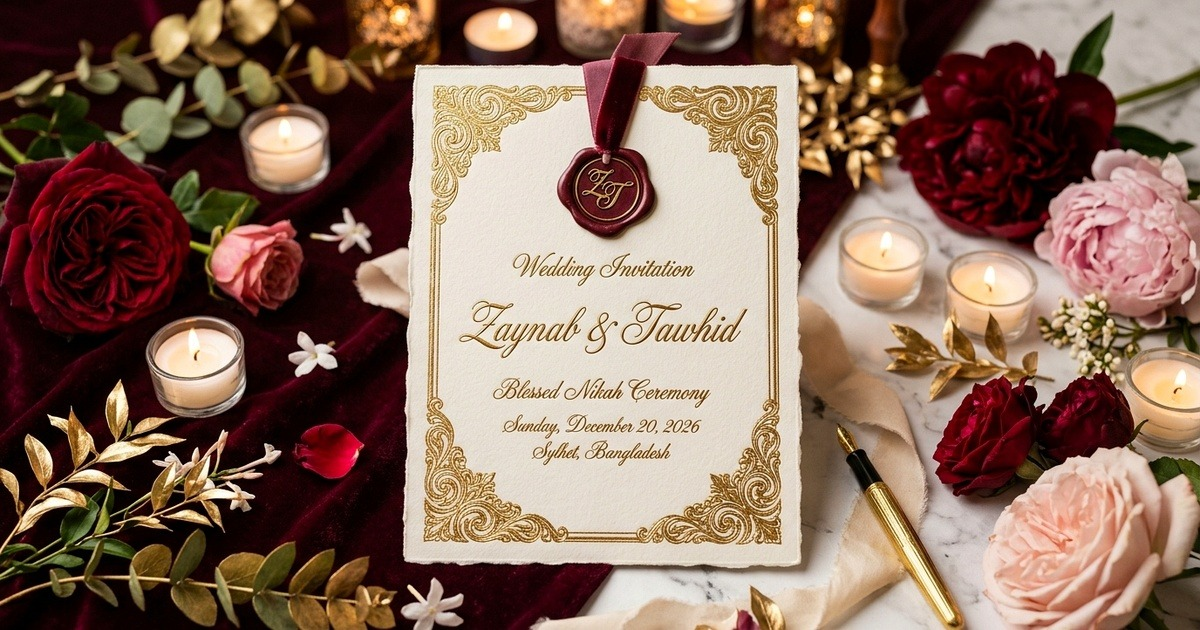
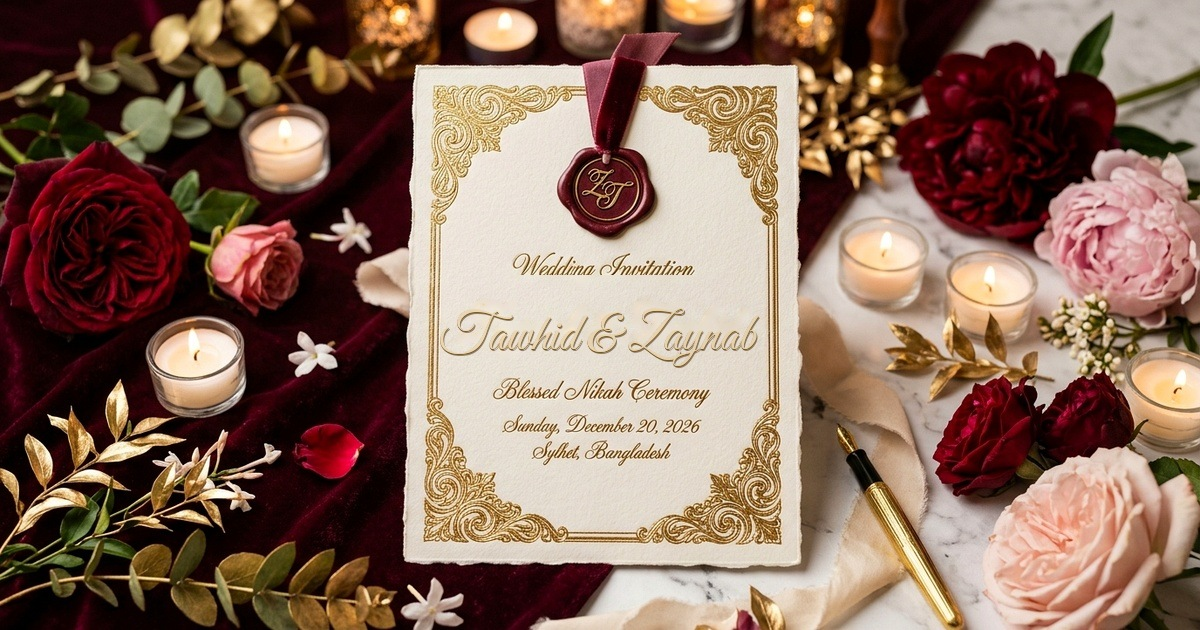
fix: use absolute og:image url for whatsapp preview and place groom name first (Tawhid & Zaynab)

Changed region(s): [[0.37, 0.4825, 0.6475, 0.6032]]

diff --git a/index.html b/index.html
@@ -4,28 +4,30 @@
 <head>
   <meta charset="UTF-8">
   <meta name="viewport" content="width=device-width, initial-scale=1.0, maximum-scale=1.0, user-scalable=no">
-  <title>The Wedding of Zaynab &amp; Tawhid | December 20, 2026</title>
+  <title>The Wedding of Tawhid &amp; Zaynab | December 20, 2026</title>
   <meta name="description"
-    content="Official Wedding Invitation of Zaynab &amp; Tawhid. Join us for our blessed Nikah ceremony in Sylhet, Bangladesh on December 20, 2026.">
+    content="Official Wedding Invitation of Tawhid &amp; Zaynab. Join us for our blessed Nikah ceremony in Sylhet, Bangladesh on December 20, 2026.">
 
-  <!-- OpenGraph / WhatsApp / Facebook / Telegram Link Preview Thumbnail -->
+  <!-- OpenGraph / WhatsApp / Facebook / Telegram Link Preview Thumbnail (Absolute URLs Required) -->
   <meta property="og:type" content="website">
-  <meta property="og:site_name" content="The Wedding of Zaynab &amp; Tawhid">
-  <meta property="og:title" content="💍 Wedding Invitation | Zaynab &amp; Tawhid">
-  <meta property="og:description" content="You are cordially invited to celebrate the Blessed Nikah Ceremony of Zaynab &amp; Tawhid on Sunday, December 20, 2026. Tap to open your interactive invitation.">
-  <meta property="og:image" content="assets/og_wedding_thumbnail.jpg">
-  <meta property="og:image:secure_url" content="assets/og_wedding_thumbnail.jpg">
+  <meta property="og:url" content="https://weddinginvitation-psi-teal.vercel.app/">
+  <meta property="og:site_name" content="The Wedding of Tawhid &amp; Zaynab">
+  <meta property="og:title" content="💍 Wedding Invitation | Tawhid &amp; Zaynab">
+  <meta property="og:description" content="You are cordially invited to celebrate the Blessed Nikah Ceremony of Tawhid &amp; Zaynab on Sunday, December 20, 2026. Tap to open your interactive invitation.">
+  <meta property="og:image" content="https://weddinginvitation-psi-teal.vercel.app/assets/og_wedding_thumbnail.jpg?v=5">
+  <meta property="og:image:secure_url" content="https://weddinginvitation-psi-teal.vercel.app/assets/og_wedding_thumbnail.jpg?v=5">
   <meta property="og:image:type" content="image/jpeg">
   <meta property="og:image:width" content="1200">
   <meta property="og:image:height" content="630">
-  <meta property="og:image:alt" content="Wedding Invitation Card of Zaynab &amp; Tawhid">
+  <meta property="og:image:alt" content="Wedding Invitation Card of Tawhid &amp; Zaynab">
 
   <!-- Twitter Card / Large Thumbnail Preview -->
   <meta name="twitter:card" content="summary_large_image">
-  <meta name="twitter:title" content="💍 Wedding Invitation | Zaynab &amp; Tawhid">
-  <meta name="twitter:description" content="You are cordially invited to celebrate the Blessed Nikah Ceremony of Zaynab &amp; Tawhid on Sunday, December 20, 2026. Tap to open your interactive invitation.">
-  <meta name="twitter:image" content="assets/og_wedding_thumbnail.jpg">
-  <meta name="twitter:image:alt" content="Wedding Invitation Card of Zaynab &amp; Tawhid">
+  <meta name="twitter:url" content="https://weddinginvitation-psi-teal.vercel.app/">
+  <meta name="twitter:title" content="💍 Wedding Invitation | Tawhid &amp; Zaynab">
+  <meta name="twitter:description" content="You are cordially invited to celebrate the Blessed Nikah Ceremony of Tawhid &amp; Zaynab on Sunday, December 20, 2026. Tap to open your interactive invitation.">
+  <meta name="twitter:image" content="https://weddinginvitation-psi-teal.vercel.app/assets/og_wedding_thumbnail.jpg?v=5">
+  <meta name="twitter:image:alt" content="Wedding Invitation Card of Tawhid &amp; Zaynab">
 
   <!-- Tailwind CSS CDN -->
   <script src="https://cdn.tailwindcss.com"></script>
@@ -499,21 +501,21 @@
           </span>
         </div>
 
-        <!-- Main Prominent Couple Title -->
+        <!-- Main Prominent Couple Title (Groom First) -->
         <div class="mt-8 mb-2">
           <h1
             class="font-script text-6xl sm:text-7xl text-white drop-shadow-[0_4px_16px_rgba(0,0,0,0.95)] leading-[1.05]">
-            Zaynab
+            Tawhid
           </h1>
           <span class="font-serif text-3xl sm:text-4xl text-[#F3E5AB] italic font-light block my-1 drop-shadow">
             &amp;
           </span>
           <h1
             class="font-script text-6xl sm:text-7xl text-white drop-shadow-[0_4px_16px_rgba(0,0,0,0.95)] leading-[1.05]">
-            Tawhid
+            Zaynab
           </h1>
           <p class="font-serif text-xs tracking-[0.2em] text-[#F3E5AB] uppercase mt-3 drop-shadow">
-            Zaynab Zuhra &bull; Md Talha Hussain Tawhid
+            Md Talha Hussain Tawhid &bull; Zaynab Zuhra
           </p>
         </div>
       </div>
@@ -597,7 +599,7 @@
             world to us, and we would be honored to have you with us at our Nikah ceremony.&rdquo;
           </p>
           <div class="inline-flex flex-col items-center">
-            <span class="font-script text-2xl text-[#F3E5AB]">Zaynab &amp; Tawhid</span>
+            <span class="font-script text-2xl text-[#F3E5AB]">Tawhid &amp; Zaynab</span>
             <span class="font-cinzel text-[9px] tracking-[0.25em] uppercase text-white/70 mt-0.5">Request the honor of your company</span>
           </div>
         </div>
@@ -860,11 +862,11 @@
               <!-- Small top and bottom gold diamond accents -->
               <polygon points="50,14 52,17 50,20 48,17" fill="#F3E5AB"/>
               <polygon points="50,80 52,83 50,86 48,83" fill="#F3E5AB"/>
-              <!-- Centered Monogram Text cleanly contained inside -->
-              <text x="50" y="58" text-anchor="middle" font-family="'Cormorant Garamond', 'Playfair Display', serif" font-size="24" font-weight="600" font-style="italic" fill="#F3E5AB" letter-spacing="1">Z &amp; T</text>
+              <!-- Centered Monogram Text cleanly contained inside (T & Z) -->
+              <text x="50" y="58" text-anchor="middle" font-family="'Cormorant Garamond', 'Playfair Display', serif" font-size="24" font-weight="600" font-style="italic" fill="#F3E5AB" letter-spacing="1">T &amp; Z</text>
             </svg>
           </div>
-          <p class="font-cinzel text-xs tracking-[0.3em] uppercase text-white font-bold">Zaynab &amp; Tawhid</p>
+          <p class="font-cinzel text-xs tracking-[0.3em] uppercase text-white font-bold">Tawhid &amp; Zaynab</p>
           <p class="font-serif text-xs text-white/70 mt-1">Sylhet &bull; December 20, 2026</p>
           <p class="font-mono text-[9px] text-white/40 mt-4 tracking-widest uppercase">
             Designed with love &bull; Interactive Envelope Edition
@@ -1285,8 +1287,8 @@
         "DTSTAMP:20261014T090000Z",
         "DTSTART:20261220T080000Z",
         "DTEND:20261220T120000Z",
-        "SUMMARY:Wedding of Zaynab & Tawhid (Nikah Ceremony)",
-        "DESCRIPTION:Blessed Nikah Ceremony of Zaynab Zuhra & Md Talha Hussain Tawhid.\\nVenue: Kushiara International Convention Hall, Sylhet, Bangladesh.",
+        "SUMMARY:Wedding of Tawhid & Zaynab (Nikah Ceremony)",
+        "DESCRIPTION:Blessed Nikah Ceremony of Md Talha Hussain Tawhid & Zaynab Zuhra.\\nVenue: Kushiara International Convention Hall, Sylhet, Bangladesh.",
         "LOCATION:Kushiara International Convention Hall, Chondipul Point, South Surma, Sylhet, Bangladesh, 3100",
         "STATUS:CONFIRMED",
         "SEQUENCE:0",
@@ -1297,7 +1299,7 @@
       const blob = new Blob([icsData], { type: "text/calendar;charset=utf-8" });
       const link = document.createElement("a");
       link.href = URL.createObjectURL(blob);
-      link.setAttribute("download", "Zaynab_and_Tawhid_Wedding_Invite.ics");
+      link.setAttribute("download", "Tawhid_and_Zaynab_Wedding_Invite.ics");
       document.body.appendChild(link);
       link.click();
       document.body.removeChild(link);
